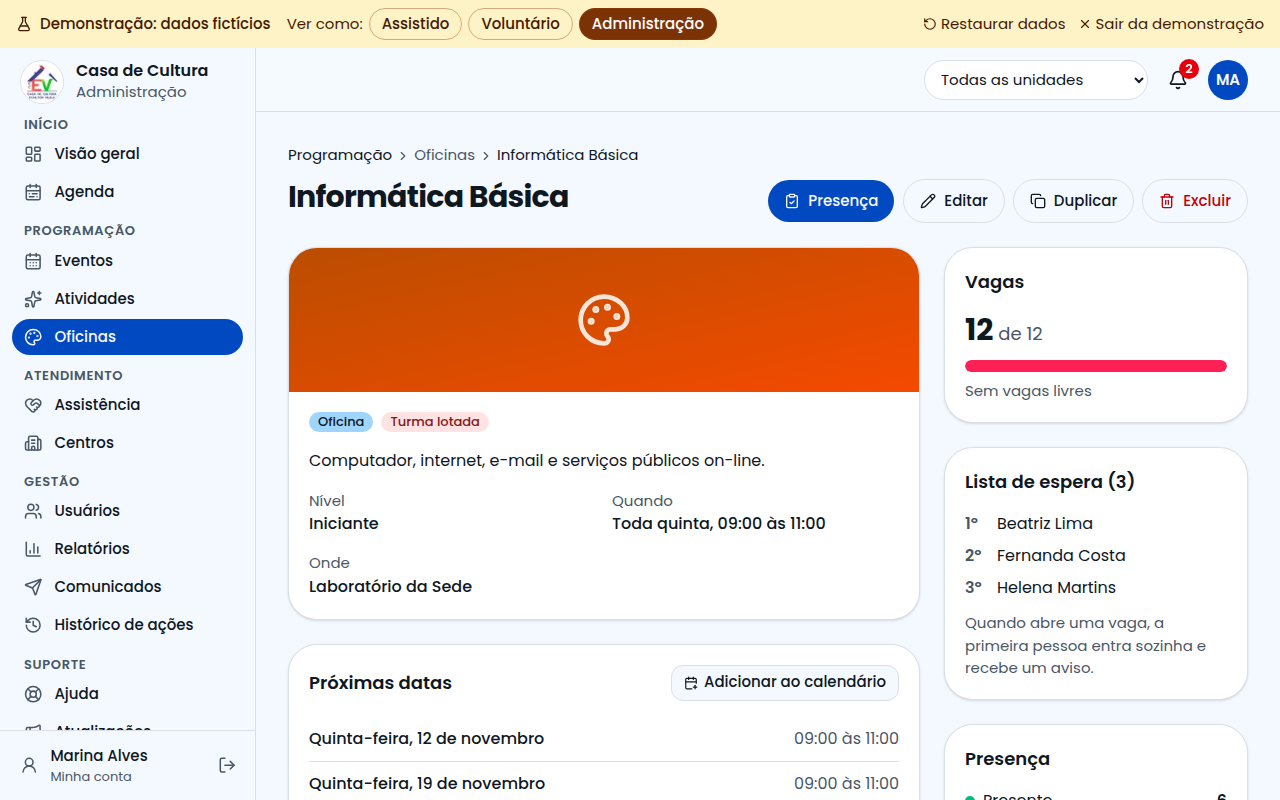
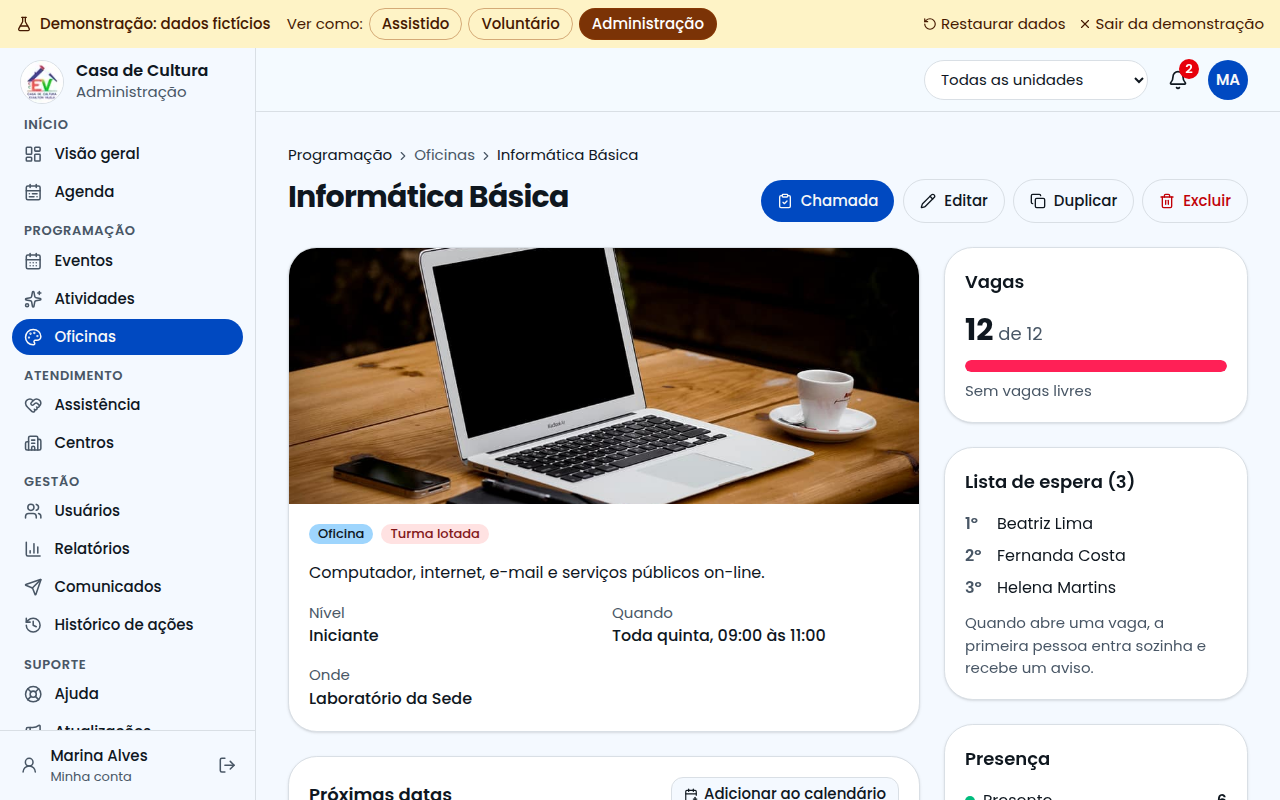
docs(front): guias, roadmap e comunicado da v1.7.0, com novas imagens

diff --git a/front-end/docs/comunicados/2026-11-07-v1.7.0.md b/front-end/docs/comunicados/2026-11-07-v1.7.0.md
@@ -1,0 +1,56 @@
+# Resumo da atualização
+
+## Em uma frase
+
+O sistema ficou mais próximo das pessoas: agora dá para conhecer e cuidar de cada assistido, fazer a chamada dia a dia e ver tudo com fotos e mapas.
+
+## O que mudou para cada pessoa
+
+### Administração
+
+- **Usuários:** cada assistido tem uma página com necessidades, saúde, condição social, família, assiduidade e histórico de acompanhamento.
+- **Filtros de cuidado:** dá para ver quem precisa de contato, quem tem deficiência e quem recebe benefício.
+- **Visão geral:** novo quadro com eventos, atividades, oficinas e assistência. "Precisa de atenção" agora é a última parte.
+- **Relatórios:** comparação com o período anterior, destaques, quem precisa de contato e perfil do público.
+- **Cadastros:** a foto agora é obrigatória, e cada item mostra um mapa com o endereço.
+
+### Voluntário
+
+- **Compromissos dia a dia:** mostra só as datas que existem de fato e avisa as chamadas pendentes.
+- **Chamada por dia:** escolha a data e marque quem veio naquele dia.
+- **Check-in:** agora fica dentro da chamada de cada atividade e dia. O assistido mostra o QR Code ao chegar.
+- **Minha ficha:** dias e períodos em que pode ajudar, e de que forma.
+- **Agenda:** opção de ver só os meus compromissos ou todos da Casa.
+
+### Assistido
+
+- **Atividades da Casa:** tudo o que é oferecido, com fotos, separado entre o que já faz e no que pode se inscrever.
+- **Minhas inscrições:** próxima data de cada item e quantas vezes compareceu.
+- **Certificado:** novo modelo, com número de encontros e horas.
+
+### Página inicial
+
+- Mostra só as portas de assistido e voluntário.
+- A demonstração e o login da administração ficam em endereços que não aparecem no sistema. Veja o documento "Comece por aqui".
+
+## O que cada equipe precisa fazer
+
+| Equipe | O que fazer |
+|---|---|
+| **Todos** | Testar o seu portal seguindo o documento "Comece por aqui" |
+| **Back-end** | Ler o documento "Para a equipe de back-end" e responder as perguntas do final |
+| **Site** | Ler o documento "Para a equipe do site" |
+| **T.I.** | Informar o e-mail oficial do suporte |
+| **Coordenação** | Responder as decisões em aberto do documento "Próximos passos" |
+
+## Pontos de atenção
+
+- Os dados reais do banco **não foram alterados**. Eles ainda têm registros de teste, como "bbb" e "Atualizaçaoo2". Quem cuida do banco precisa decidir se apaga.
+- A página **/admin-signup** continua aberta: qualquer pessoa consegue criar uma conta de administrador. Isso precisa ser fechado antes de usar o sistema com pessoas reais.
+- Os textos de termos de uso e privacidade são modelos. Precisam de revisão jurídica.
+- As fichas guardam dados sensíveis, como saúde e deficiência. Antes de usar com pessoas reais, é preciso definir quem pode ver e pedir o consentimento.
+- As fotos da demonstração são de bancos de imagens livres e não mostram a Casa de Cultura.
+
+## Se você já tinha baixado o projeto
+
+O histórico da branch **main** foi ajustado mais de uma vez. Antes de continuar, quem tem uma cópia local precisa guardar o próprio trabalho e sincronizar de novo. Em caso de dúvida, peça ajuda antes de enviar qualquer alteração.

diff --git a/front-end/docs/ROADMAP.md b/front-end/docs/ROADMAP.md
@@ -60,6 +60,13 @@ Tudo abaixo funciona no **modo demonstração**. Os itens com 🔗 ainda precisa
 - **v1.6 LGPD e segurança:** termos, privacidade, consentimento 🔗, baixar e excluir dados 🔗, verificação em duas etapas 🔗, limite de tentativas, pergunta anti-robô, dados sensíveis escondidos e cabeçalhos de segurança.
 - **v2.0:** certificados com QR Code, fotos nos cadastros 🔗 e comunicados 🔗 (e-mail e WhatsApp simulados).
 
+### v1.7 Cuidado e rotina ✅ protótipo (esta entrega)
+- **Pessoas:** página do assistido com necessidades, saúde, condição social, família ligada, assiduidade e acompanhamento 🔗.
+- **Voluntário:** compromissos dia a dia, chamada por data com check-in dentro da atividade 🔗 e ficha de disponibilidade 🔗.
+- **Assistido:** Atividades da Casa com fotos, abas do que participa e do que pode se inscrever; certificado novo.
+- **Administração:** quadro por tipo na Visão geral, relatórios com comparação e foto obrigatória 🔗.
+- **Mapa** do endereço em cada item, sem custo.
+
 ### Fora do escopo do front-end
 - **Site público:** responsabilidade da equipe do site.
 - **API pública e webhooks:** responsabilidade do back-end.
